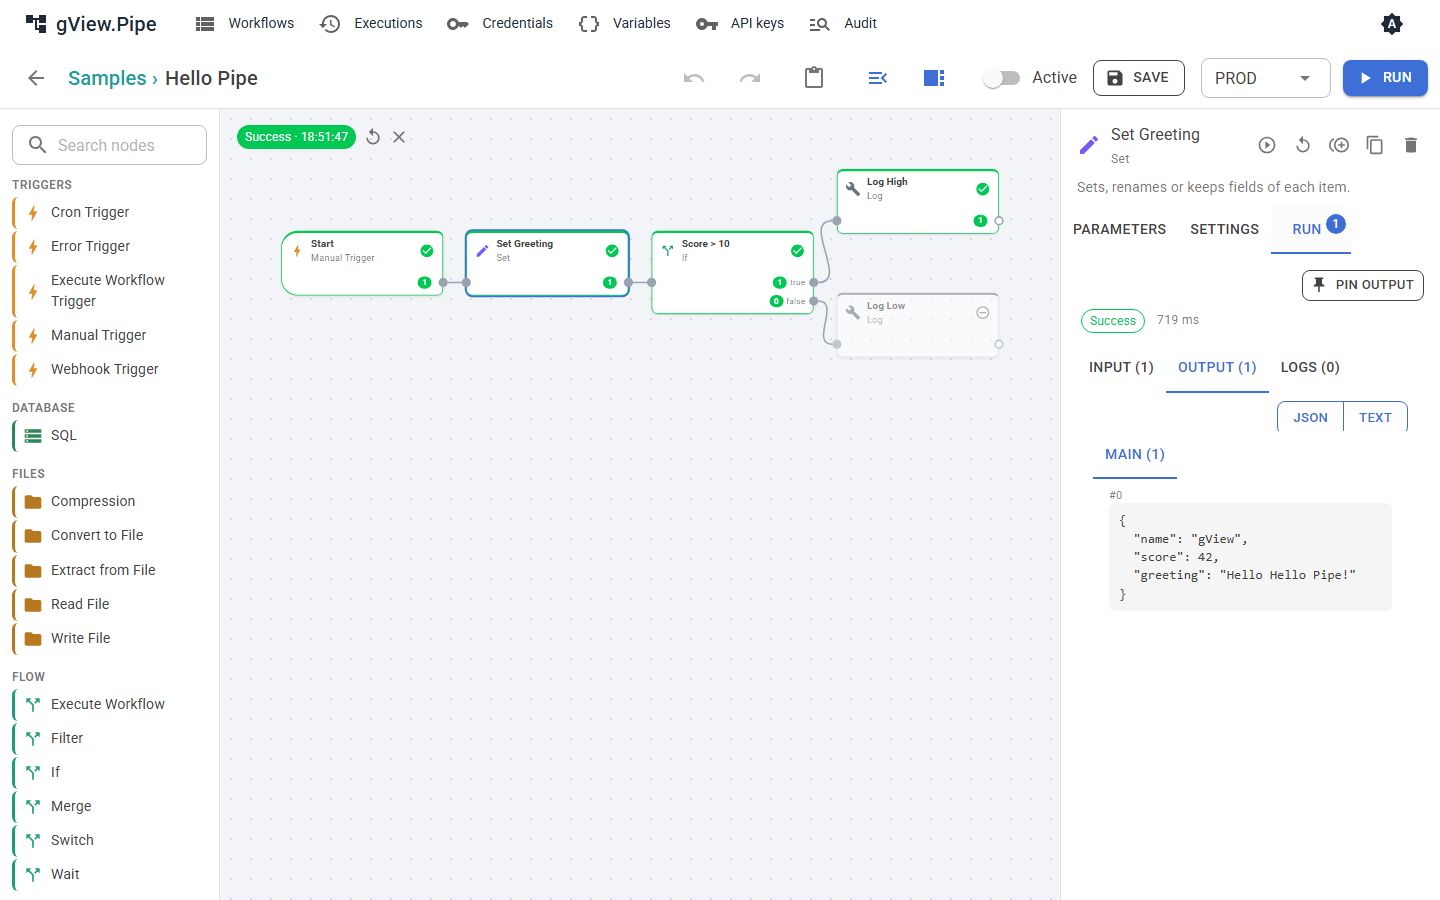
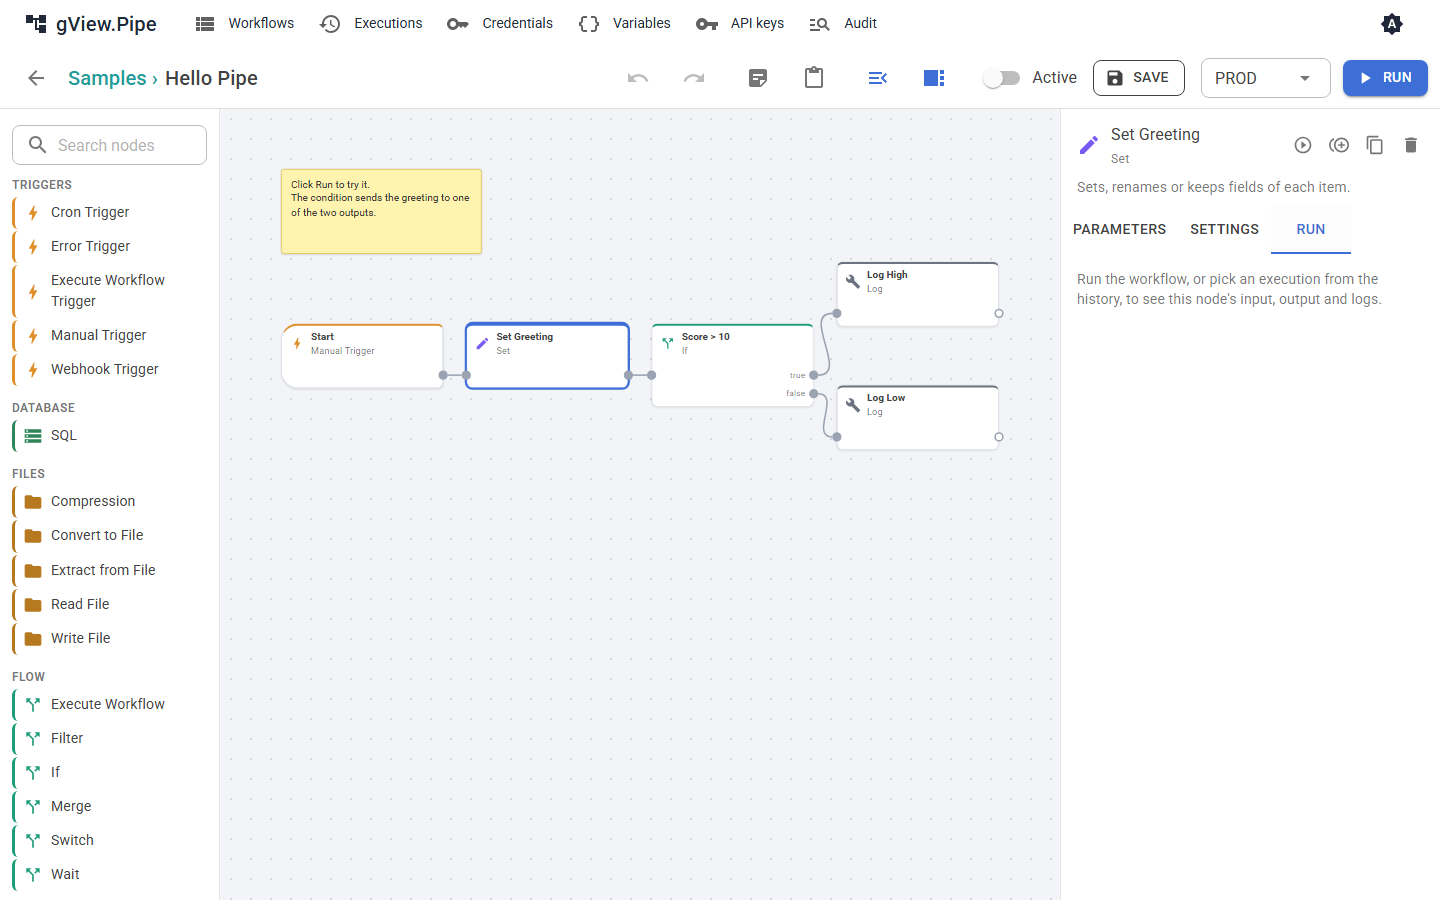
Add sticky notes to the editor (ADR 0024)
Workflows get an optional list of sticky notes (text, color, position,
size) that the editor shows behind the nodes. Notes can be edited in the
side panel, copied, pasted, duplicated, deleted and undone, and are read
only without the editor role. The audit log names a change as "notes".
Docs (en/de), the hello-pipe sample and tests included.

diff --git a/src/gView.Pipe.Razor/wwwroot/css/gview-pipe.css b/src/gView.Pipe.Razor/wwwroot/css/gview-pipe.css
@@ -998,3 +998,35 @@ div.gview-pipe-json-tree {
 .gview-pipe-readonly {
     opacity: .85;
 }
+
+/* ---- sticky notes (ADR 0024) ---- */
+
+.gview-pipe-note {
+    --note-bg: #fff3b0;
+    --note-border: #e0c64a;
+    box-sizing: border-box;
+    padding: 10px 12px;
+    overflow: hidden;
+    white-space: pre-wrap;
+    overflow-wrap: anywhere;
+    background: var(--note-bg);
+    border: 1px solid var(--note-border);
+    border-radius: 4px;
+    box-shadow: 0 1px 3px rgba(0, 0, 0, .12);
+    color: #2b2b2b;
+    font-size: .8rem;
+}
+
+    .gview-pipe-note.selected { box-shadow: 0 0 0 2px var(--mud-palette-primary); }
+    .gview-pipe-note-green { --note-bg: #cdeccf; --note-border: #8cc790; }
+    .gview-pipe-note-blue { --note-bg: #cfe4fa; --note-border: #86b6e6; }
+    .gview-pipe-note-red { --note-bg: #f8d2d0; --note-border: #e08e8a; }
+    .gview-pipe-note-purple { --note-bg: #e3d5f4; --note-border: #b79ddd; }
+    .gview-pipe-note-gray { --note-bg: #e4e6ea; --note-border: #b3b8c1; }
+
+[data-mud-theme="dark"] .gview-pipe-note { color: #f1f1f1; --note-bg: #6b5d12; --note-border: #968420; }
+[data-mud-theme="dark"] .gview-pipe-note-green { --note-bg: #2f5a33; --note-border: #4d8a52; }
+[data-mud-theme="dark"] .gview-pipe-note-blue { --note-bg: #274a73; --note-border: #3f74ab; }
+[data-mud-theme="dark"] .gview-pipe-note-red { --note-bg: #6e2e2b; --note-border: #a64b47; }
+[data-mud-theme="dark"] .gview-pipe-note-purple { --note-bg: #4a3770; --note-border: #7459a8; }
+[data-mud-theme="dark"] .gview-pipe-note-gray { --note-bg: #484c55; --note-border: #6b717d; }

diff --git a/src/tests/gView.Pipe.Core.Tests/Storage/PipeStickyNoteTests.cs b/src/tests/gView.Pipe.Core.Tests/Storage/PipeStickyNoteTests.cs
@@ -1,0 +1,40 @@
+using gView.Pipe.Abstraction.Serialization;
+using gView.Pipe.Abstraction.Workflows;
+
+namespace gView.Pipe.Core.Tests.Storage;
+
+public sealed class PipeStickyNoteTests
+{
+    [Fact]
+    public void Notes_survive_a_round_trip()
+    {
+        var workflow = new PipeWorkflow { Id = "w", Name = "W" };
+        workflow.StickyNotes = [new PipeStickyNote { Id = "n1", Text = "Set up the credential first", Color = "blue", Width = 300 }];
+
+        var copy = PipeJson.Clone(workflow);
+
+        var note = Assert.Single(copy.StickyNotes!);
+        Assert.Equal("Set up the credential first", note.Text);
+        Assert.Equal("blue", note.Color);
+        Assert.Equal(300, note.Width);
+    }
+
+    [Fact]
+    public void A_workflow_without_notes_loads_and_writes_no_list()
+    {
+        var workflow = PipeJson.Deserialize<PipeWorkflow>("""{ "id": "w", "name": "W" }""")!;
+
+        Assert.Null(workflow.StickyNotes);
+        Assert.Equal("no changes", PipeWorkflowChanges.Describe(workflow, PipeJson.Clone(workflow)));
+    }
+
+    [Fact]
+    public void Changed_notes_show_up_as_one_entry()
+    {
+        var before = new PipeWorkflow { Id = "w", Name = "W" };
+        var after = PipeJson.Clone(before);
+        after.StickyNotes = [new PipeStickyNote { Id = "n1", Text = "a" }, new PipeStickyNote { Id = "n2", Text = "b" }];
+
+        Assert.Equal("notes", PipeWorkflowChanges.Describe(before, after));
+    }
+}

diff --git a/src/gView.Pipe.Docs.Screenshots/DocsScreenshots.cs b/src/gView.Pipe.Docs.Screenshots/DocsScreenshots.cs
@@ -26,6 +26,7 @@ internal sealed class DocsScreenshots
         await StartPageAsync();
         await GroupPageAsync();
         await EditorRunAsync();
+        await EditorNoteAsync();
         await NodePanelsAsync();
         await CodeFieldAsync();
         await WebhookTriggerAsync();
@@ -87,6 +88,16 @@ internal sealed class DocsScreenshots
         await OpenEditorAsync("hello-pipe");
         await RunAsync();
         await ShotAsync("editor-run");
+    }
+
+    /// <summary>The sticky note of the sample "hello-pipe", selected so the panel shows its fields.</summary>
+    private async Task EditorNoteAsync()
+    {
+        await HighAsync();
+        await OpenEditorAsync("hello-pipe");
+        await _page.Locator(".gview-pipe-note").First.ClickAsync();
+        await _page.WaitForTimeoutAsync(1200);
+        await ShotAsync("editor-note");
     }
 
     /// <summary>The three tabs of a node, on the node "Set Greeting" of the run before.</summary>

diff --git a/src/gView.Pipe.Razor/Editor/PipeNoteModel.cs b/src/gView.Pipe.Razor/Editor/PipeNoteModel.cs
@@ -1,0 +1,27 @@
+using Blazor.Diagrams.Core.Geometry;
+using Blazor.Diagrams.Core.Models;
+using gView.Pipe.Abstraction.Workflows;
+
+namespace gView.Pipe.Razor.Editor;
+
+/// <summary>Canvas model of a sticky note (ADR 0024). It has no ports.</summary>
+public sealed class PipeNoteModel : NodeModel
+{
+    public PipeNoteModel(PipeStickyNote note)
+        : base(note.Id, new Point(note.Position.X, note.Position.Y))
+    {
+        Note = note;
+        Size = new Size(note.Width, note.Height);
+        // behind nodes and links
+        Order = -1;
+    }
+
+    public PipeStickyNote Note { get; }
+
+    /// <summary>Applies width and height of <see cref="Note"/> to the canvas model.</summary>
+    public void ApplySize()
+    {
+        Size = new Size(Note.Width, Note.Height);
+        Refresh();
+    }
+}

diff --git a/src/gView.Pipe.Abstraction/Workflows/PipeStickyNote.cs b/src/gView.Pipe.Abstraction/Workflows/PipeStickyNote.cs
@@ -1,0 +1,23 @@
+namespace gView.Pipe.Abstraction.Workflows;
+
+/// <summary>A note on the canvas of the editor (ADR 0024). The engine ignores it.</summary>
+public sealed class PipeStickyNote
+{
+    public const double DefaultWidth = 220;
+    public const double DefaultHeight = 140;
+
+    /// <summary>Colors the editor offers (css classes <c>gview-pipe-note-*</c>).</summary>
+    static public readonly string[] Colors = ["yellow", "green", "blue", "red", "purple", "gray"];
+
+    public string Id { get; set; } = "";
+
+    public string Text { get; set; } = "";
+
+    public string Color { get; set; } = "yellow";
+
+    public PipePosition Position { get; set; } = new();
+
+    public double Width { get; set; } = DefaultWidth;
+
+    public double Height { get; set; } = DefaultHeight;
+}

diff --git a/src/gView.Pipe.Razor/Editor/PipeEditorClipboard.cs b/src/gView.Pipe.Razor/Editor/PipeEditorClipboard.cs
@@ -16,6 +16,8 @@ public sealed class PipeClipboardContent
     public List<PipeWorkflowNode> Nodes { get; set; } = new();
 
     public List<PipeConnection> Connections { get; set; } = new();
+
+    public List<PipeStickyNote> Notes { get; set; } = new();
 }
 
 /// <summary>
@@ -79,7 +81,7 @@ public sealed class PipeEditorClipboard
         try
         {
             var content = JsonSerializer.Deserialize<PipeClipboardContent>(text, PipeJson.Options);
-            return content?.Format == PipeClipboardContent.Marker && content.Nodes.Count > 0 ? content : null;
+            return content?.Format == PipeClipboardContent.Marker && (content.Nodes.Count > 0 || content.Notes.Count > 0) ? content : null;
         }
         catch (JsonException)
         {

diff --git a/src/gView.Pipe.Abstraction/Workflows/PipeWorkflow.cs b/src/gView.Pipe.Abstraction/Workflows/PipeWorkflow.cs
@@ -39,6 +39,9 @@ public sealed class PipeWorkflow
 
     public List<PipeConnection> Connections { get; set; } = new();
 
+    /// <summary>Notes on the canvas. Only the editor shows them; a missing list means none (ADR 0024).</summary>
+    public List<PipeStickyNote>? StickyNotes { get; set; }
+
     /// <summary>
     /// Pin data: fixed output items per node id and output port. In manual runs a pinned node is not executed;
     /// it returns these items instead. Trigger runs ignore pin data.

diff --git a/src/gView.Pipe.Abstraction/Workflows/PipeWorkflowChanges.cs b/src/gView.Pipe.Abstraction/Workflows/PipeWorkflowChanges.cs
@@ -42,6 +42,11 @@ static public class PipeWorkflowChanges
             parts.Add($"connections +{connectionsNow.Except(connections).Count()} -{connections.Except(connectionsNow).Count()}");
         }
 
+        if (!SameJson(before.StickyNotes ?? [], after.StickyNotes ?? []))
+        {
+            parts.Add("notes");
+        }
+
         if (before.Name != after.Name)
         {
             parts.Add($"renamed from '{before.Name}'");

diff --git a/docs/site/de/user-guide/editor.md b/docs/site/de/user-guide/editor.md
@@ -11,7 +11,7 @@ Im Editor baust du einen Workflow: Nodes auf einer Arbeitsfläche, verbunden dur
 | **Palette** (links) | Alle Node-Typen nach Kategorien, mit Suchfeld. Fahre über einen Node, um seine Beschreibung zu sehen. |
 | **Arbeitsfläche** (Mitte) | Der Workflow. Nodes zeigen Name und Typ; Ports sind die Punkte an ihren Rändern. |
 | **Seitenpanel** (rechts) | Ohne gewählten Node: die Einstellungen des Workflows. Mit gewähltem Node: seine Parameter, Einstellungen und das Laufergebnis. |
-| **Werkzeugleiste** (oben) | Zurück, Rückgängig und Wiederholen, Einfügen, Palette und Seitenpanel ein- und ausblenden, der Schalter **Active**, **Save** und **Run**. |
+| **Werkzeugleiste** (oben) | Zurück, Rückgängig und Wiederholen, Einfügen, Notiz hinzufügen, Palette und Seitenpanel ein- und ausblenden, der Schalter **Active**, **Save** und **Run**. |
 
 Palette und Seitenpanel änderst du in der Breite, indem du den schmalen Balken neben ihnen ziehst. Ein Doppelklick setzt die Breite zurück. Zwei Schaltflächen der Werkzeugleiste blenden sie aus und wieder ein, damit die Arbeitsfläche mehr Platz hat; der Browser merkt sich das. Ein großer Workflow wird mit mindestens 70 % angezeigt, damit die Namen lesbar bleiben; den Rest erreichst du durch Verschieben der Arbeitsfläche.
 
@@ -35,6 +35,12 @@ Der erste Node eines Workflows ist ein **Trigger** (siehe [Trigger und Webhooks]
 - **Kopiere** eine Auswahl mit Strg+C auf der Arbeitsfläche, **füge** sie mit Strg+V **ein**. Das funktioniert auch in einem anderen Workflow, du kannst also Teile zwischen Workflows verschieben. Die Werkzeugleiste hat dafür auch eine Einfügen-Schaltfläche.
 - **Dupliziere** einen Node mit dem Symbol im Seitenpanel.
 - **Rückgängig** und **Wiederholen** (Strg+Z, Strg+Y oder Strg+Umschalt+Z auf der Arbeitsfläche, oder die Werkzeugleiste) gelten für jede Änderung am Workflow. Tippen in die Felder eines Nodes zählt als ein Schritt.
+
+### Notizen
+
+Mit der Notiz-Schaltfläche der Werkzeugleiste legst du eine **Haftnotiz** auf die Arbeitsfläche, zum Beispiel um zu erklären, warum ein Filter da ist oder was zuerst einzurichten ist. Wähle eine Notiz, um im Seitenpanel Text, Farbe (yellow, green, blue, red, purple, gray) und Größe zu ändern; ziehe sie wie einen Node. Notizen liegen hinter den Nodes, haben keine Ports und beeinflussen keinen Lauf. Sie lassen sich wie Nodes kopieren, einfügen, duplizieren, löschen und rückgängig machen. Ohne die Rolle editor siehst du sie nur lesend.
+
+![Eine Notiz auf der Arbeitsfläche](../../images/editor-note.png)
 
 ## Die Tabs eines Nodes
 

diff --git a/docs/site/en/user-guide/editor.md b/docs/site/en/user-guide/editor.md
@@ -11,7 +11,7 @@ You build a workflow in the editor: nodes on a canvas, connected by lines. Open 
 | **Palette** (left) | All node types by category, with a search field. Hover a node for its description. |
 | **Canvas** (middle) | The workflow. Nodes show their name and type; ports are the dots on their edges. |
 | **Side panel** (right) | With no node selected: the settings of the workflow. With a node selected: its parameters, settings and run result. |
-| **Toolbar** (top) | Back, undo and redo, paste, show or hide the palette and the side panel, the **Active** switch, **Save** and **Run**. |
+| **Toolbar** (top) | Back, undo and redo, paste, add a note, show or hide the palette and the side panel, the **Active** switch, **Save** and **Run**. |
 
 The palette and the side panel can be resized by dragging the thin bar next to them. A double click resets the width. Two toolbar buttons hide and show them, to give the canvas more room; the browser keeps that choice. A large workflow is shown at 70 % at least, so the names stay readable; scroll the canvas to see the rest.
 
@@ -35,6 +35,12 @@ The first node of a workflow is a **trigger** (see [Triggers and webhooks](trigg
 - **Copy** a selection with Ctrl+C on the canvas, **paste** with Ctrl+V. Pasting also works into another workflow, so you can move parts between workflows. The toolbar has a paste button too.
 - **Duplicate** a node with the icon in the side panel.
 - **Undo** and **redo** (Ctrl+Z, Ctrl+Y or Ctrl+Shift+Z on the canvas, or the toolbar) work for every change to the workflow. Typing into the fields of one node counts as one step.
+
+### Notes
+
+Use the note button in the toolbar to put a **sticky note** on the canvas, for example to explain why a filter is there or what to set up first. Select a note to change its text, color (yellow, green, blue, red, purple, gray) and size in the side panel; drag it like a node. Notes lie behind the nodes, have no ports and don't affect a run. They can be copied, pasted, duplicated, deleted and undone like nodes. Without the editor role you see them read only.
+
+![A note on the canvas](../../images/editor-note.png)
 
 ## Node tabs
 

diff --git a/docs/adr/0024-sticky-notes.md b/docs/adr/0024-sticky-notes.md
@@ -1,0 +1,23 @@
+# 24. Sticky notes
+
+Date: 2026-11-02 · Status: accepted
+
+## Context
+
+Workflows grow, and the reasons behind them (why this filter, what to set up first) live in people's heads. A node has a note field, but it is visible only when the node is selected.
+
+## Decision
+
+- A workflow has an optional list `stickyNotes` (`PipeStickyNote`: id, text, color, position, width, height), separate from the nodes. Engine, validation and *Execute Workflow* don't know it; files without the list load as before.
+- The text is plain text with line breaks. (Markdown was considered; it needs a renderer package and sanitizing, and can follow later.)
+- Six colors (yellow, green, blue, red, purple, gray), defined for the light and the dark theme in `gview-pipe.css`.
+- On the canvas a note lies behind nodes and links, has no ports and does not move other nodes. Select it to edit text, color and size in the side panel; drag it like a node.
+- *Add note* in the toolbar puts a note in the middle of the visible canvas. Copy, paste, duplicate, delete, undo and redo include notes (the clipboard content has a `notes` list next to `nodes`).
+- Editing follows the editor role ([ADR 0021](0021-roles.md)); viewers and operators see notes read only.
+- The audit log summary names a change of notes as `notes`, not each text (`PipeWorkflowChanges`).
+- The samples carry a note where a setup hint helps; the docs show one in a screenshot.
+
+## Consequences
+
+- Older gView.Pipe versions keep the list in their extension data and write it back unchanged.
+- Notes are not versioned or searched separately: they are part of the workflow document.

diff --git a/docs/ideas.md b/docs/ideas.md
@@ -25,7 +25,7 @@ Priority: everything gView.Pipe needs apart from geo; the GIS nodes come last. S
 ## Editor and UX
 
 - [x] Pinned data, undo/redo and copy/paste of nodes (as JSON, also between workflows) exist already.
-- [ ] Sticky notes and comments on the canvas.
+- [x] Sticky notes on the canvas (ADR 0024); comments by several people are not part of it.
 - [x] Expression editor: autocomplete in expression and code fields (ADR 0019); the preview of the value existed already.
 - [ ] Workflow versions: history and diff, export/import with Git.
 
